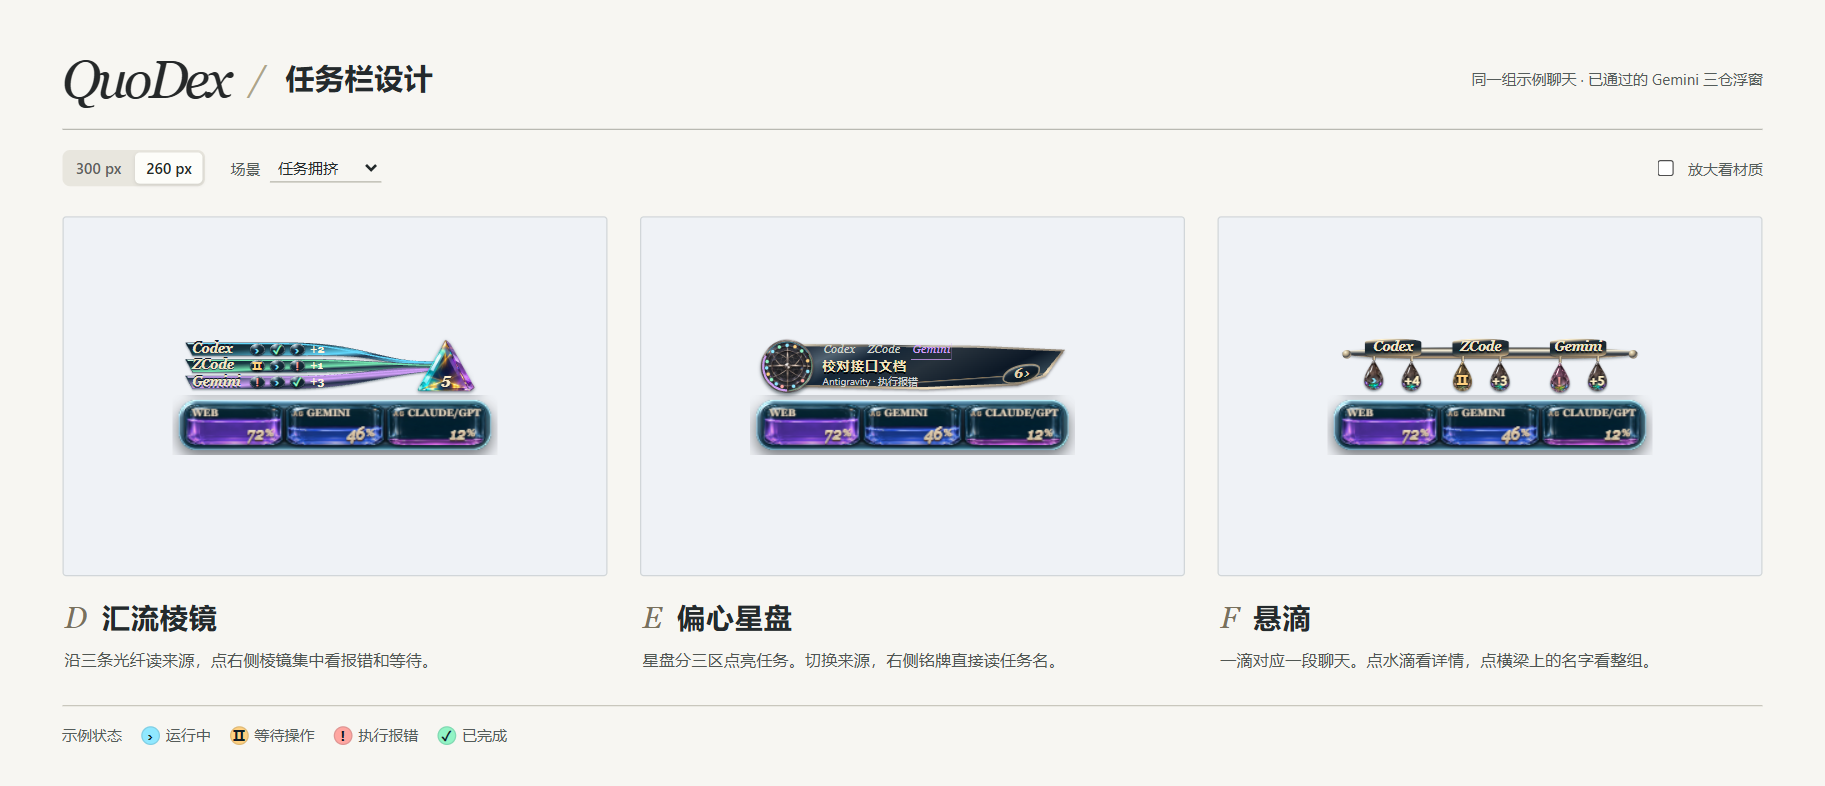
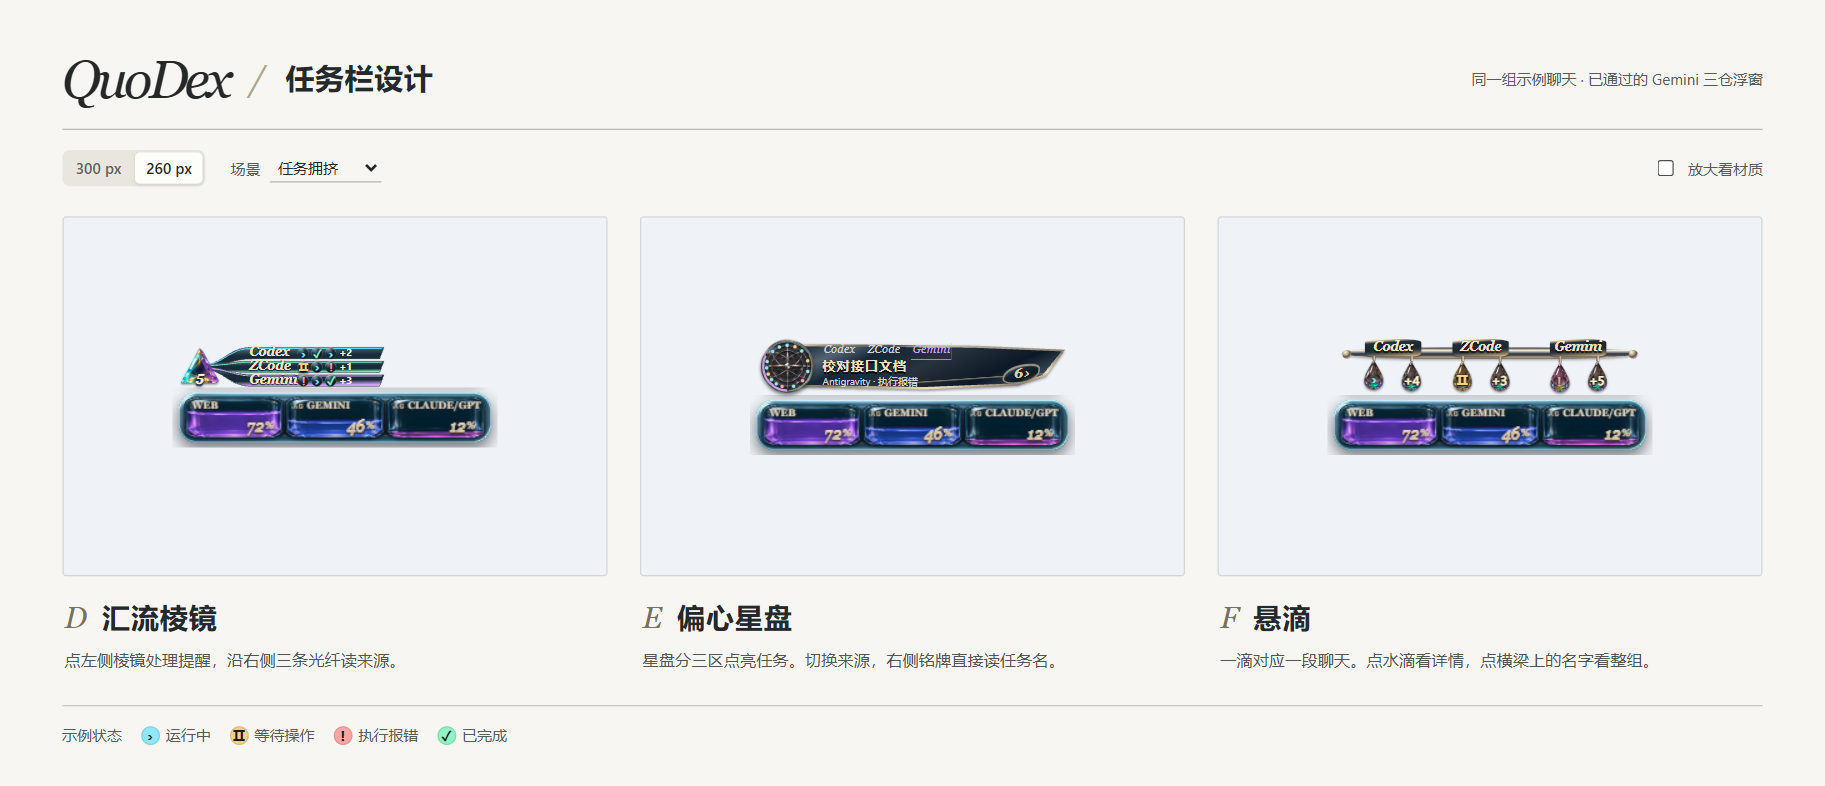
将 D 方案棱镜左置并收紧两种浮窗的任务区

Changed region(s): [[0.0937, 0.4275, 0.2811, 0.5802], [0.0312, 0.8244, 0.2499, 0.855]]

diff --git a/docs/design/gemini-taskbar/optics/optics.css b/docs/design/gemini-taskbar/optics/optics.css
@@ -21,17 +21,60 @@ footer{flex-wrap:wrap;gap:15px;border-top:1px solid #c9c7bd;margin-top:26px;padd
 .instrument button{border:none;padding:0;background:transparent;color:inherit;position:relative}.instrument img{display:block;width:100%;height:100%;object-fit:contain}
 .instrument button:focus-visible{outline:2px solid #257e9d;outline-offset:0;border-radius:4px}
 .sign{display:inline-grid;place-items:center;color:var(--state);font:800 10px/1 "Segoe UI Symbol","Segoe UI",sans-serif;text-shadow:0 1px 2px black}
-.prism{height:56px}.fibers{position:absolute;inset:0;width:100%;height:100%;filter:drop-shadow(0 1px .65px #2c3f4870)}
-.pulse{stroke-dasharray:9 292;animation:transit 4.8s ease-in infinite;opacity:.8}
-.dormant{display:none}
-.p1{animation-delay:-1.9s}.p2{animation-delay:-3.3s}@keyframes transit{0%{stroke-dashoffset:45;opacity:0}20%{opacity:.9}85%,100%{stroke-dashoffset:-255;opacity:0}}
-.prism .strand{position:absolute;left:3.3%;width:74%;height:30%;display:flex;align-items:center;gap:8px;text-align:left;line-height:1}
-.s0{top:4%}.s1{top:34.4%}.s2{top:64.7%}
-.engraved{width:46px;font:italic bold 12px/1 Georgia,serif;letter-spacing:.15px;color:#f1e6c7;text-shadow:0 -1px #121b2c,0 1px #314451}
-.points{display:flex;gap:4px;align-items:center}.points .sign{width:12px;height:11px;border-radius:50%;box-shadow:0 .7px 1px #15212c, inset 0 .5px 1px #ffffffe0;background:radial-gradient(ellipse at 30% 16%,#bed4e1,#1a3342 31%,#102330 70%,#516878)}
-.points small{color:#fff5dc;font:700 9px/1 Georgia,serif}.strand:hover .engraved{text-shadow:0 0 4px #f1fafb}
-.prism .prism-tip{position:absolute;right:1.7%;top:0;width:23.2%;height:100%;filter:drop-shadow(0 1.8px 1.4px #19263597)}
-.prism-lens{position:absolute;right:44%;top:60%;font:italic bold 12px/1 Georgia,serif;color:#fff0cc;text-shadow:0 1px 1px #192338,0 0 3px #152238}.prism-tip:hover img{filter:brightness(1.12)}
+.prism {
+  width:186px;
+  height:36px;
+  margin:0 0 0 15px;
+}
+.compact .prism {
+  width:164px;
+  height:33px;
+  margin-left:6px;
+}
+.fibers {position:absolute;inset:0;width:100%;height:100%;filter:drop-shadow(0 .6px .45px #2c3f4866)}
+.pulse {stroke-dasharray:4 112;animation:transit 4.8s ease-in-out infinite}
+.p1 {animation-delay:-1.9s}
+.p2 {animation-delay:-3.3s}
+@keyframes transit {
+  0%,12% {stroke-dashoffset:5;opacity:0}
+  25% {opacity:.98}
+  85%,100% {stroke-dashoffset:-100;opacity:0}
+}
+.prism .prism-tip {
+  position:absolute;left:0;top:0;width:20%;height:100%;
+  filter:drop-shadow(0 1px .7px #19263588);
+}
+.prism-lens {
+  position:absolute;left:50%;top:61%;transform:translateX(-50%);
+  font:italic bold 10px/1 Georgia,serif;color:#fff0cc;text-shadow:0 1px 1px #192338,0 0 2px #152238;
+}
+.prism-tip:hover img {filter:brightness(1.12)}
+.prism .strand {
+  position:absolute;left:20%;right:0;height:calc(100% / 3);
+  display:flex;align-items:center;gap:4px;padding:0 0 0 14%;
+  text-align:left;line-height:1;
+}
+.s0 {top:0}
+.s1 {top:calc(100% / 3)}
+.s2 {bottom:0}
+.engraved {width:39px;flex:none;font:italic bold 10.5px/1 Georgia,serif;letter-spacing:.12px;color:#f5e5c7;text-shadow:0 1px 1px #13212b}
+.points {display:flex;gap:2px;align-items:center;white-space:nowrap}
+.points .sign {width:10px;height:10px;border-radius:50%;font-size:9px;box-shadow:inset 0 .7px .8px #cbd6dcbb;background:radial-gradient(ellipse at 33% 16%,#839da8,#18303e 39%,#0b1f2c 76%,#506471)}
+.points small {color:#fff0cd;font:700 8px/1 "Segoe UI",sans-serif}
+.strand:hover .engraved {color:white}
+.compact .prism .engraved {width:35px;font-size:10px}
+.compact .prism .points .sign {width:9px;height:9px}
+.prism-review main {max-width:820px}
+.prism-review .gallery {grid-template-columns:1fr 1fr}
+.prism-review .paper {height:200px;place-items:center}
+.prism-review .stage {zoom:1}
+.prism-review .caption {padding-top:10px}
+.prism-review .caption h2 {font-size:15px}
+.prism-review .caption p {margin-top:3px;font-size:12px}
+@media(max-width:680px) {
+  .prism-review .gallery {grid-template-columns:1fr}
+  .prism-review .paper {height:auto;min-height:128px;padding:15px 0}
+}
 .dial{height:64px;margin-inline:13px 12px}.wing{position:absolute;inset:10% 0 7% 9%;filter:drop-shadow(0 1.4px 1px #25242880)}
 .wing-face,.wing-face::before,.wing-face::after{position:absolute;inset:0;clip-path:polygon(0 0,68% 4%,100% 13%,93% 71%,83% 91%,50% 100%,0 94%);background:linear-gradient(172deg,#fffae9 0%,#978d79 9%,#4a4d4f 20%,#c3bdaf 26%,#897c6a 56%,#f1debc 76%,#524b47 91%);content:""}
 .wing-face::before{inset:1.8px 2.8px 2px 1px;background:linear-gradient(155deg,#182333 2%,#526371 17%,#152637 29%,#27323c 49%,#0c1826 73%,#344653 86%,#9eaaac 100%)}
@@ -50,7 +93,7 @@ footer{flex-wrap:wrap;gap:15px;border-top:1px solid #c9c7bd;margin-top:26px;padd
 .crystal{display:grid;place-items:center;position:relative;width:100%;height:31px;filter:drop-shadow(.4px 1.2px .8px #15283388)}.crystal img{position:absolute;inset:0}.crystal .sign,.crystal b{position:relative;top:13%;font:800 12px/1 "Segoe UI Symbol","Segoe UI",sans-serif;text-shadow:0 1px 2px #000,0 0 3px #111}.crystal b{font-size:10px;color:#fff0c6}.pendant.fail .crystal img{filter:sepia(.45) saturate(1.8) hue-rotate(288deg)}.pendant.wait .crystal img{filter:sepia(.8) saturate(1.65)}.pendant.run .crystal img{filter:saturate(1.35)}
 .pendant.run .crystal::after{content:"";z-index:1;position:absolute;left:31%;top:32%;width:1.4px;height:32%;transform:rotate(25deg);background:linear-gradient(transparent,#eeffff,transparent);animation:glint 3.2s ease-in-out infinite}@keyframes glint{0%,100%{opacity:.1;translate:0 2px}50%{opacity:.95;translate:1px -2px}}
 .drops .pendant:hover .crystal{filter:brightness(1.16) drop-shadow(0 1px 1px #1b283b)}.drops .no-drops{align-self:center;color:#42535b;font:10px/1.2 "Microsoft YaHei UI",sans-serif}
-.compact .instrument{height:44px}.compact .engraved{font-size:10px;width:38px}.compact .points .sign{height:9px;font-size:9px}.compact .dial{margin-inline:8px}.compact .dial-info{left:20.5%;right:8%;top:8%;height:81%;gap:1px}.compact .legend{gap:8px}.compact .legend button{font-size:9px}.compact .featured strong{font-size:10.5px}.compact .featured small{font-size:8px}.compact .hallmark{height:14px;font-size:10px;min-width:45px}.compact .rail{top:7px;height:9px}.compact .drops{height:30px}.compact .crystal{height:24px}.compact .level1{--wire:4px}.compact .level2{--wire:5px}.compact .crystal .sign{font-size:10px}
+.compact .instrument:is(.dial,.drop){height:44px}.compact .dial{margin-inline:8px}.compact .dial-info{left:20.5%;right:8%;top:8%;height:81%;gap:1px}.compact .legend{gap:8px}.compact .legend button{font-size:9px}.compact .featured strong{font-size:10.5px}.compact .featured small{font-size:8px}.compact .hallmark{height:14px;font-size:10px;min-width:45px}.compact .rail{top:7px;height:9px}.compact .drops{height:30px}.compact .crystal{height:24px}.compact .level1{--wire:4px}.compact .level2{--wire:5px}.compact .crystal .sign{font-size:10px}
 dialog{width:min(350px,calc(100% - 32px));max-height:75vh;overflow:auto;padding:18px 20px;border:1px solid #52626b;border-radius:12px;color:#f1e4cd;background:linear-gradient(150deg,#283b46,#111d29 60%);box-shadow:0 12px 55px #10151b55}dialog::backdrop{background:#24303954}.detail-head{display:flex;justify-content:space-between;align-items:center}.detail-head h2{font:600 19px/1.3 Georgia,"Microsoft YaHei UI",sans-serif}.detail-head button{width:28px;height:28px;border:0;background:transparent;color:#dfddce;font:22px/1 Georgia,serif}.entries{margin-top:9px;font-size:13px}.entry{display:flex;align-items:center;gap:10px;border-top:1px solid #a9b7b52c;padding:9px 0}.entry .sign{width:20px;height:20px;background:#172630;border:1px solid var(--state);border-radius:50%}.entry div{display:grid;gap:3px}.entry small,.notice{color:#c9d5d8}.notice{font-size:12px}
 @media(max-width:1100px){.gallery{grid-template-columns:1fr}.paper{height:235px}.caption{padding-top:10px}.gallery{gap:27px}main{max-width:680px}.paper .stage{zoom:1.24}.actual .stage{zoom:1}}
 @media(max-width:460px){main{padding:20px 10px}.mast{gap:8px}.brand{font-size:31px}h1{font-size:18px}header{display:block}header p{margin-top:10px}nav{gap:8px;margin:12px 0}.scale{margin-left:0}.paper{height:200px}.paper .stage{zoom:1}.caption h2{font-size:19px}footer{column-gap:10px}}

diff --git a/docs/design/gemini-taskbar/optics/optics.js b/docs/design/gemini-taskbar/optics/optics.js
@@ -24,19 +24,40 @@ const unknown = source => source === "Gemini" && (scene === "partial" || scene =
 const issue = t => t.state === "fail" || t.state === "wait";
 const mark = state => `<span class="sign ${state}" aria-hidden="true">${states[state][1]}</span>`;
 const label = t => `${t.source} · ${t.origin===t.source?"":t.origin+" · "}${t.title} · ${states[t.state][0]}`;
-function glassLines(rows){
+function glassLines(rows, key) {
   const bands = [
-    ["M3 4 H99 C148 4 167 10 196 17 S232 23 255 23 L255 26 C223 27 206 24 183 20 S136 17 101 17 H10 Z","M5 5 H99 C162 5 188 24 248 24"],
-    ["M3 21 H120 C174 21 193 25 255 26 L255 30 C193 31 163 34 121 34 H10 Z","M5 22 H120 C177 22 203 27 249 27"],
-    ["M3 38 H99 C148 38 163 36 190 32 S230 29 255 30 L255 32 C227 34 204 39 183 43 S138 51 102 51 H10 Z","M5 39 H99 C156 39 211 31 249 31"]
+    ["M21 16 C40 16 43 1 65 1 H185 L181 11 H65 C48 11 42 17 21 18 Z","M21 16 C41 16 43 2 65 2 H183"],
+    ["M21 17 C39 17 45 13 65 13 H185 L181 23 H65 C46 23 39 19 21 19 Z","M21 17 C43 17 46 14 65 14 H183"],
+    ["M21 18 C40 18 47 25 65 25 H185 L181 35 H65 C44 35 41 21 21 20 Z","M21 19 C41 19 49 26 65 26 H183"]
   ];
-  return `<svg class="fibers" viewBox="0 0 300 56" preserveAspectRatio="none" aria-hidden="true"><defs>${colors.map((c,i)=>`<linearGradient id="fiber${i}" x2=".91" y2="1" gradientUnits="objectBoundingBox"><stop stop-color="#0a1c29"/><stop offset=".28" stop-color="#183843"/><stop offset=".57" stop-color="${c}"/><stop offset=".68" stop-color="#223048"/><stop offset=".94" stop-color="${c}"/></linearGradient>`).join("")}</defs>${bands.map(([band,shine],i)=>`<path d="${band}" fill="url(#fiber${i})" stroke="#465967" stroke-width=".5"/><path d="${shine}" fill="none" stroke="${colors[i]}" stroke-width="1.4"/><path class="${rows.some(t=>t.source===sources[i]&&t.state==='run')?`pulse p${i}`:'dormant'}" d="${shine}" fill="none" stroke="#f6ffff" stroke-width="1" />`).join("")}</svg>`;
+  const gradients = colors.map((color, i) => `
+    <linearGradient id="${key}-fiber-${i}" x1="0" y1="0" x2=".12" y2="1">
+      <stop stop-color="${color}"/><stop offset=".18" stop-color="#405563"/>
+      <stop offset=".45" stop-color="#182c39"/><stop offset=".76" stop-color="#172d38"/>
+      <stop offset="1" stop-color="${color}"/>
+    </linearGradient>`).join("");
+  const paths = bands.map(([body, edge], i) => {
+    const active = rows.some(task => task.source === sources[i] && task.state === "run");
+    return `<path d="${body}" fill="url(#${key}-fiber-${i})" stroke="#43525b" stroke-width=".45"/>
+      <path d="${edge}" fill="none" stroke="${colors[i]}" stroke-width=".75"/>
+      ${active ? `<path class="pulse p${i}" d="${edge}" pathLength="100" fill="none" stroke="#fff" stroke-width=".95"/>` : ""}`;
+  }).join("");
+  return `<svg class="fibers" viewBox="0 0 186 36" preserveAspectRatio="none" aria-hidden="true"><defs>${gradients}</defs>${paths}</svg>`;
 }
-function prism(rows){
-  return `${glassLines(rows)}${sources.map((s,i)=>{
-    const group=rows.filter(t=>t.source===s), cap=width===260?3:4;
-    return `<button class="strand s${i}" data-list="${s}" title="查看 ${s} 的聊天"><span class="engraved">${s}</span><span class="points">${group.slice(0,cap).map(t=>mark(t.state)).join("")}${group.length>cap?`<small>+${group.length-cap}</small>`:""}${unknown(s)?"<small>?</small>":""}</span></button>`;
-  }).join("")}<button class="prism-tip" data-list="attention" aria-label="查看全部报错和等待" title="报错和等待"><img src="assets/prism.webp" alt=""><span class="prism-lens">${rows.filter(issue).length}</span></button>`;
+function prism(rows, previewWidth, key) {
+  const issues = rows.filter(issue).length;
+  const tip = `<button class="prism-tip" data-list="attention" aria-label="查看 ${issues} 项已知报错和等待" title="报错和等待"><img src="assets/prism.webp" alt=""><span class="prism-lens">${issues}</span></button>`;
+  const cap = previewWidth === 260 ? 3 : 4;
+  const strands = sources.map((source, index) => {
+    const group = rows.filter(task => task.source === source);
+    const excess = group.length - cap;
+    const unavailable = unknown(source);
+    const title = `${source} · ${group.length} 项已知聊天${unavailable ? "，部分或全部来源未连接" : ""}`;
+    return `<button class="strand s${index}" data-list="${source}" title="${title}" aria-label="${title}">
+      <span class="engraved">${source}</span><span class="points">${group.slice(0, cap).map(task => mark(task.state)).join("")}
+      ${excess > 0 ? `<small>+${excess}</small>` : ""}${unavailable ? "<small>?</small>" : ""}</span></button>`;
+  }).join("");
+  return glassLines(rows, key) + tip + strands;
 }
 function polar(radius,angle){
   const a=(angle-90)*Math.PI/180;
@@ -67,13 +88,16 @@ function pendants(rows){
   }).join("")}</div>`;
 }
 const designs={prism,dial,drop:pendants};
-function render(){
-  const rows=taskRows();
-  for(const [id,paint] of Object.entries(designs)){
-    const stage=document.querySelector(`#${id} .stage`);
-    stage.style.width=`${width}px`;
-    stage.classList.toggle("compact",width===260);
-    stage.innerHTML=`${rows.length||unknown("Gemini")?`<div class="instrument ${id}">${paint(rows)}</div>`:""}<div class="quota"><img src="../../../verification/gemini-live/${width===260?"narrow":"standard"}.png" alt="已通过的 Gemini 三仓浮窗，示例额度"></div>`;
+function render() {
+  const rows = taskRows();
+  for (const stage of document.querySelectorAll(".stage")) {
+    const id = stage.dataset.design || stage.closest("article").id;
+    const size = Number(stage.dataset.previewWidth) || width;
+    const hasTasks = rows.length > 0 || unknown("Gemini");
+    stage.style.width = `${size}px`;
+    stage.classList.toggle("compact", size === 260);
+    stage.innerHTML = `${hasTasks ? `<div class="instrument ${id}">${designs[id](rows, size, stage.id || id)}</div>` : ""}
+      <div class="quota"><img src="../../../verification/gemini-live/${size === 260 ? "narrow" : "standard"}.png" alt="已通过的 Gemini 三仓浮窗，示例额度"></div>`;
   }
 }
 function openDetails(button){
@@ -107,7 +131,7 @@ document.querySelector("nav").addEventListener("click",e=>{
   render();
 });
 document.querySelector("#scene").addEventListener("change",e=>{scene=e.target.value;render();});
-document.querySelector("#large").addEventListener("change",e=>document.body.classList.toggle("actual",!e.target.checked));
+document.querySelector("#large")?.addEventListener("change",e=>document.body.classList.toggle("actual",!e.target.checked));
 document.querySelector("#close").addEventListener("click",()=>dialog.close());
 dialog.addEventListener("click",e=>{if(e.target===dialog){const r=dialog.getBoundingClientRect();if(e.clientX<r.left||e.clientX>r.right||e.clientY<r.top||e.clientY>r.bottom)dialog.close();}});
 render();

diff --git a/docs/design/gemini-taskbar/optics/prism.html b/docs/design/gemini-taskbar/optics/prism.html
@@ -1,0 +1,44 @@
+<!doctype html>
+<html lang="zh-CN">
+<head>
+  <meta charset="utf-8">
+  <meta name="viewport" content="width=device-width, initial-scale=1">
+  <title>QuoDex · D 汇流棱镜</title>
+  <link rel="stylesheet" href="optics.css">
+  <script defer src="optics.js"></script>
+</head>
+<body class="prism-review actual">
+  <main>
+    <header>
+      <div class="mast"><span class="brand">QuoDex</span><span class="slash">/</span><h1>D · 汇流棱镜</h1></div>
+      <p>原尺寸预览 · 示例聊天</p>
+    </header>
+    <nav aria-label="场景设置">
+      <label>场景
+        <select id="scene">
+          <option value="normal">七项聊天</option>
+          <option value="busy">任务拥挤</option>
+          <option value="partial">网页未连接</option>
+          <option value="offline">Gemini 离线</option>
+          <option value="empty">全部空闲</option>
+        </select>
+      </label>
+    </nav>
+    <div class="gallery">
+      <article>
+        <div class="paper"><div class="stage" id="standard-prism" data-design="prism" data-preview-width="300"></div></div>
+        <div class="caption"><h2>标准浮窗 · 300 px</h2><p>任务区 186 × 36 px</p></div>
+      </article>
+      <article>
+        <div class="paper"><div class="stage" id="narrow-prism" data-design="prism" data-preview-width="260"></div></div>
+        <div class="caption"><h2>窄条浮窗 · 260 px</h2><p>任务区 164 × 33 px</p></div>
+      </article>
+    </div>
+    <footer>点左侧棱镜查看报错和等待。点任一条光纤查看该来源的聊天。</footer>
+  </main>
+  <dialog id="detail" aria-labelledby="detail-title">
+    <div class="detail-head"><h2 id="detail-title"></h2><button type="button" id="close" aria-label="关闭详情">×</button></div>
+    <div class="entries"></div>
+  </dialog>
+</body>
+</html>

diff --git a/docs/design/gemini-taskbar/optics/index.html b/docs/design/gemini-taskbar/optics/index.html
@@ -6,7 +6,7 @@
 <label>场景 <select id="scene"><option value="normal">七项聊天</option><option value="busy">任务拥挤</option><option value="partial">网页未连接</option><option value="offline">Gemini 离线</option><option value="empty">全部空闲</option></select></label>
 <label class="scale"><input type="checkbox" id="large" checked> 放大看材质</label></nav>
 <div class="gallery">
-<article id="prism"><div class="paper"><div class="stage"></div></div><div class="caption"><div><i>D</i><h2>汇流棱镜</h2></div><p>沿三条光纤读来源，点右侧棱镜集中看报错和等待。</p></div></article>
+<article id="prism"><div class="paper"><div class="stage"></div></div><div class="caption"><div><i>D</i><h2>汇流棱镜</h2></div><p>点左侧棱镜处理提醒，沿右侧三条光纤读来源。</p></div></article>
 <article id="dial"><div class="paper"><div class="stage"></div></div><div class="caption"><div><i>E</i><h2>偏心星盘</h2></div><p>星盘分三区点亮任务。切换来源，右侧铭牌直接读任务名。</p></div></article>
 <article id="drop"><div class="paper"><div class="stage"></div></div><div class="caption"><div><i>F</i><h2>悬滴</h2></div><p>一滴对应一段聊天。点水滴看详情，点横梁上的名字看整组。</p></div></article>
 </div><footer><span>示例状态</span><span><b class="ink-run">›</b>运行中</span><span><b class="ink-wait">Ⅱ</b>等待操作</span><span><b class="ink-fail">!</b>执行报错</span><span><b class="ink-done">✓</b>已完成</span></footer></main>

diff --git a/docs/design/gemini-taskbar/README.md b/docs/design/gemini-taskbar/README.md
@@ -1,10 +1,14 @@
 # Gemini 任务栏选型
 
-## 本轮设计
+## D 汇流棱镜 · 左置紧凑版
+
+任务栏左缘与第一个额度仓对齐。标准浮窗的任务区为 186 × 36 px，窄条为 164 × 33 px。棱镜排在键盘焦点首位，点开显示跨来源报错和等待。三条光纤向右展开，整行可点。任务拥挤时将同组溢出的任务数收在行内。[两种尺寸的交互稿](optics/prism.html) · [同屏预览](optics/prism-compact.png)
+
+## 三款方向对照
 
 [三款放在一起看](optics/selection.png) · [任务栏动效实录](optics/motion.webp)
 
-三款任务栏共用七段示例聊天和已批准的 C 三仓截图。300 px 标准视图中，D 汇流棱镜、E 偏心星盘、F 悬滴分别占高 56、64、59 px，260 px 窄视图均占高 44 px。展开 Gemini 可以同时看到 Web 和 Antigravity。[交互稿](optics/index.html) · [标准宽度对照](optics/concepts.png) · [窄屏拥挤状态](optics/compact.png) · [来源详情](optics/gemini-detail.png)
+三款任务栏共用七段示例聊天和已批准的 C 三仓截图。E 偏心星盘和 F 悬滴在标准视图分别占高 64、59 px，在窄条视图均占高 44 px。展开 Gemini 可以同时看到 Web 和 Antigravity。[交互稿](optics/index.html) · [标准宽度对照](optics/concepts.png) · [窄屏拥挤状态](optics/compact.png) · [来源详情](optics/gemini-detail.png)
 
 | 方向 | 造型参考 | 如何看任务 |
 | --- | --- | --- |
